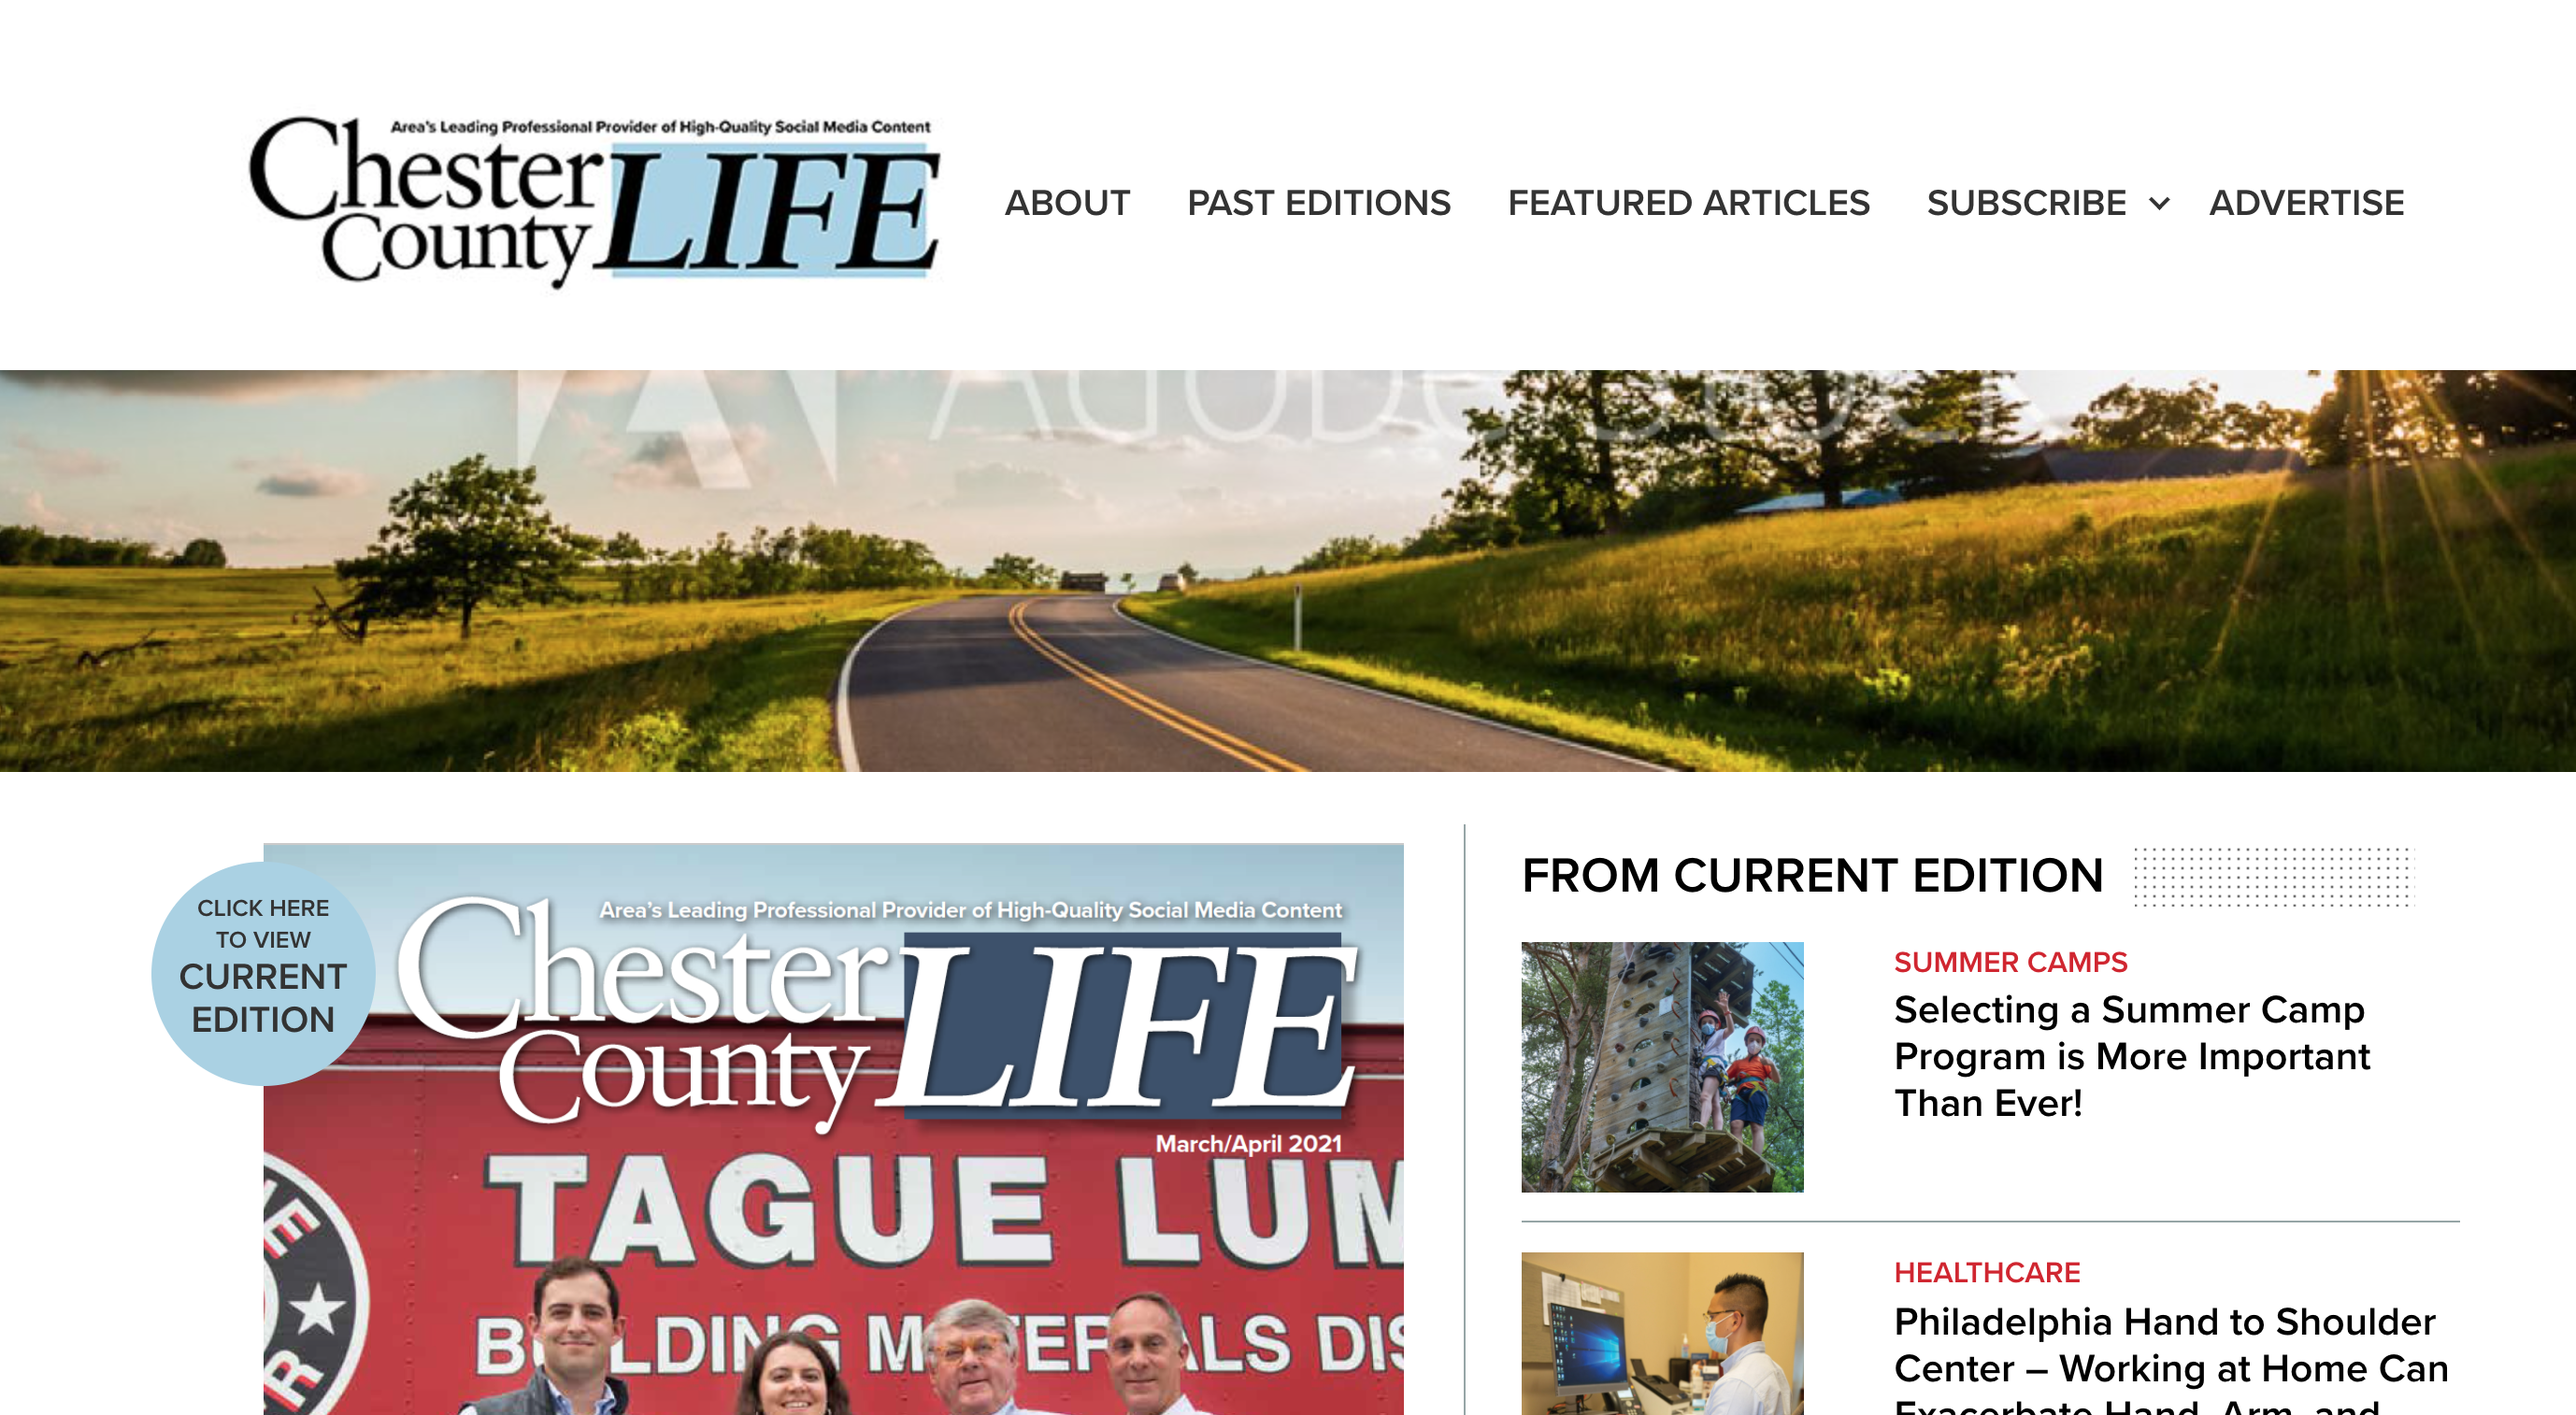
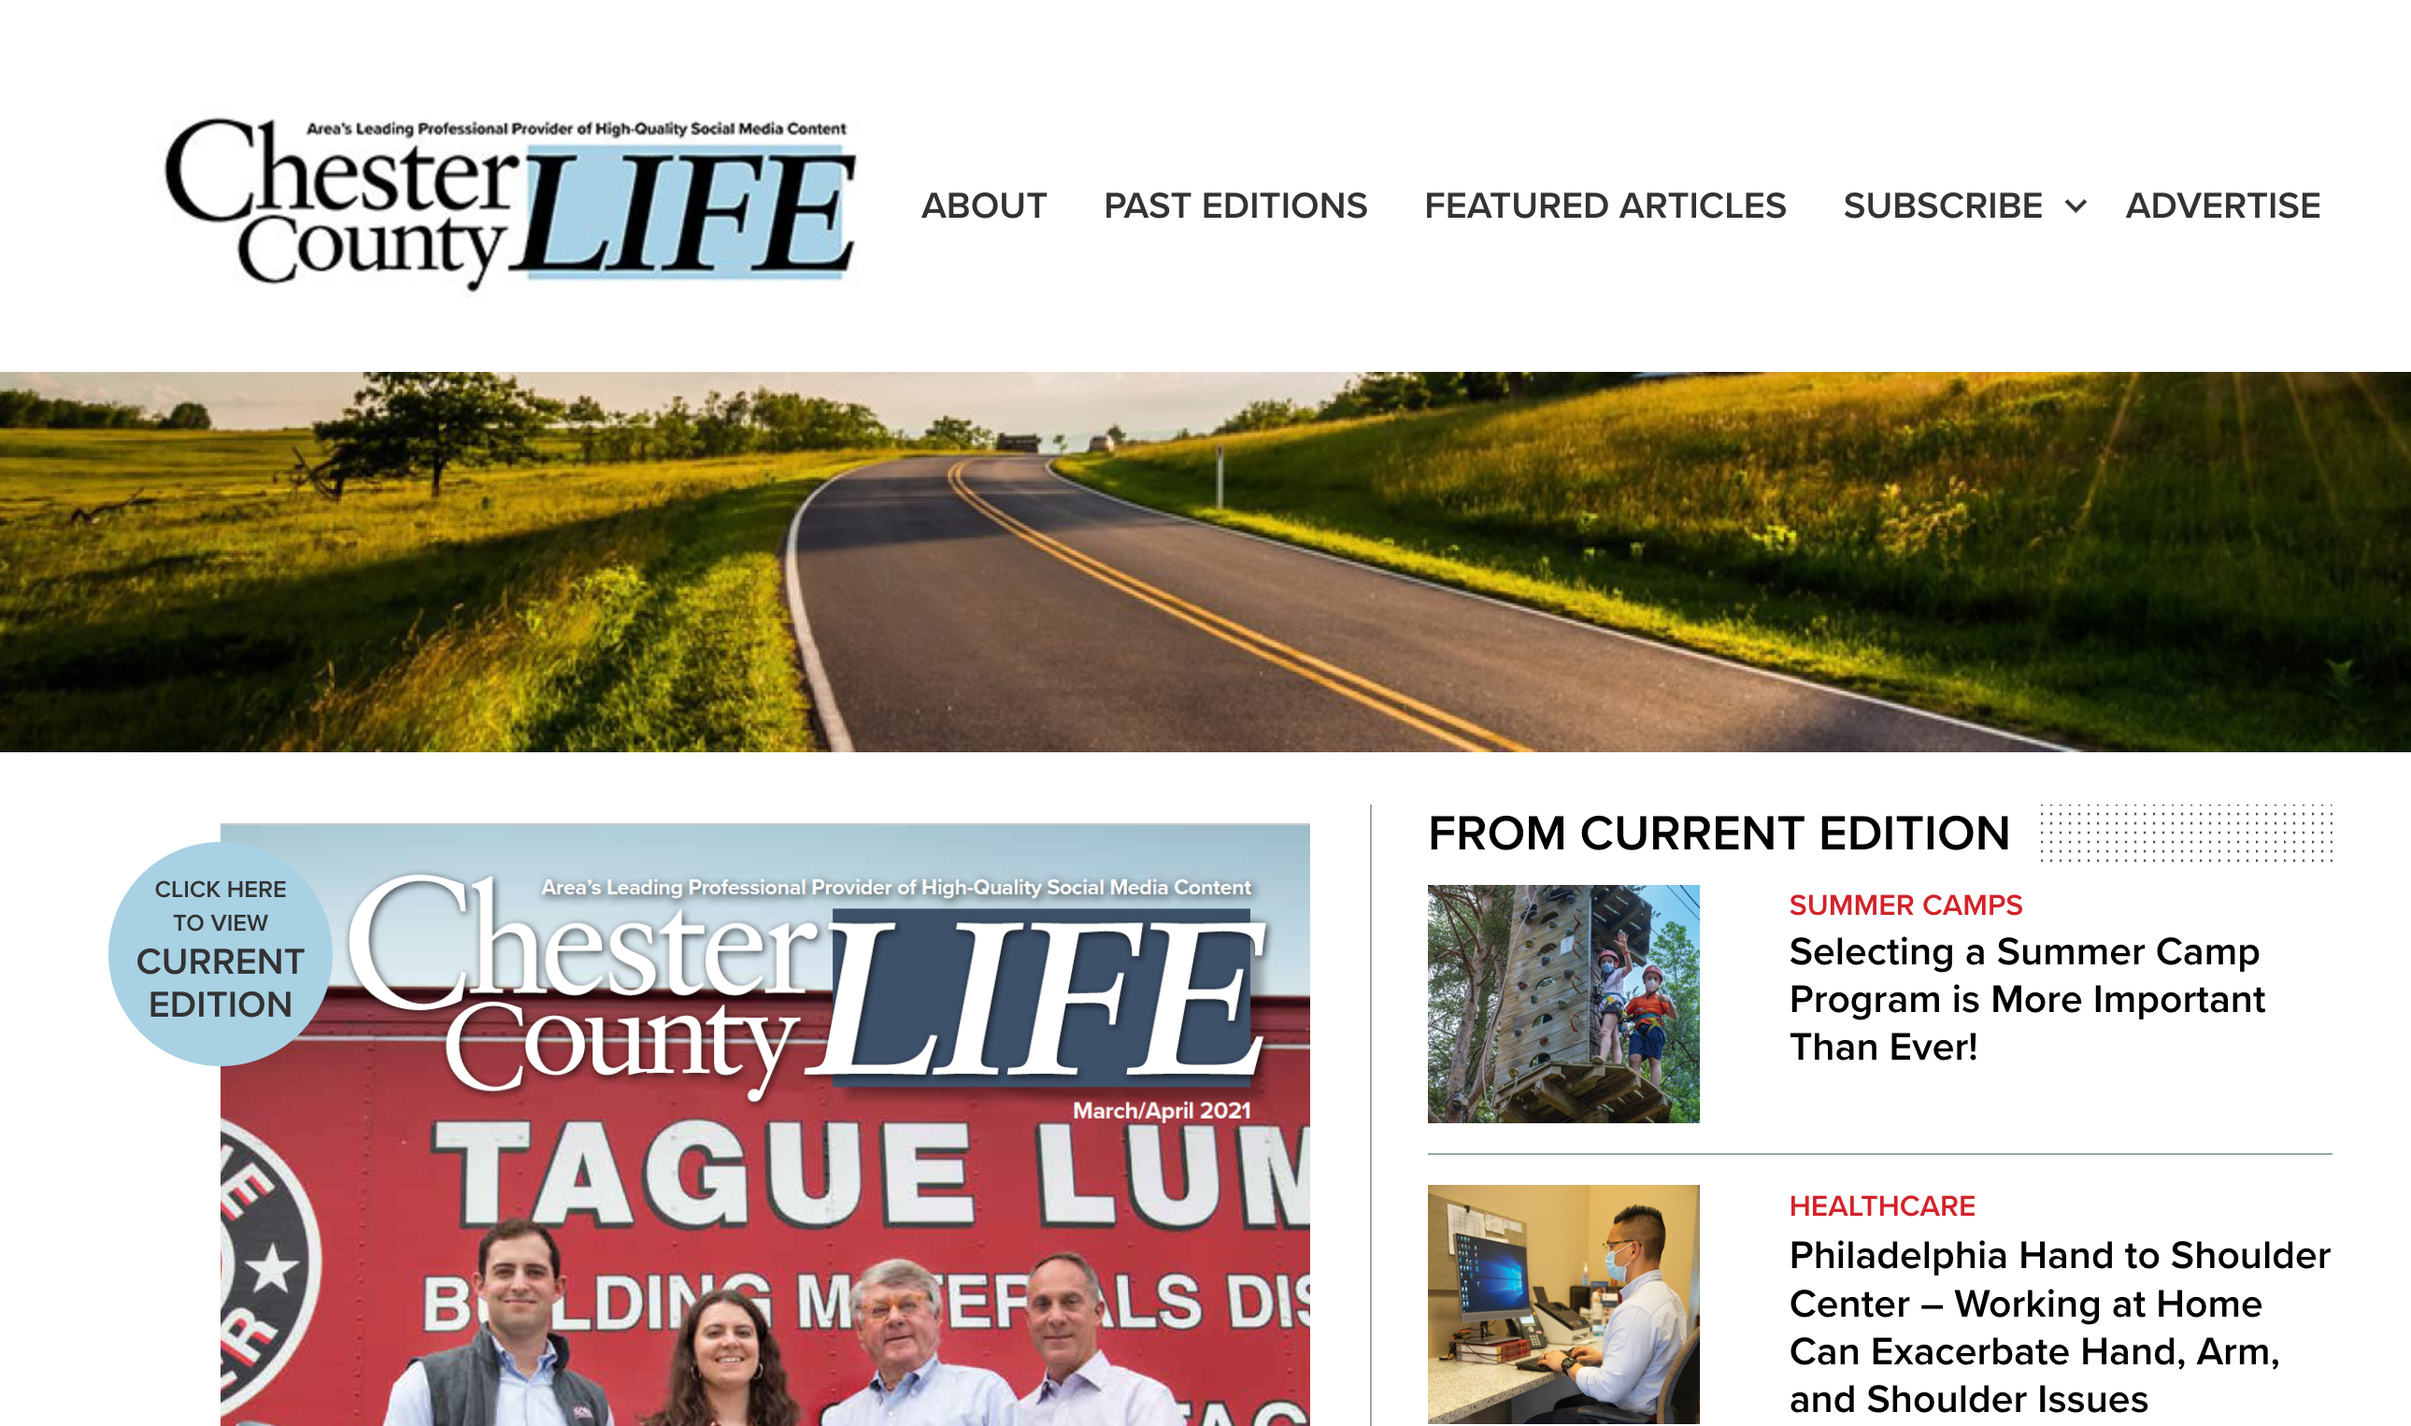
style improvements

diff --git a/assets/css/src/global.css b/assets/css/src/global.css
@@ -379,7 +379,7 @@ select {
 ## Main navigation menu
 --------------------------------------------------------------*/
 .main-navigation {
-	text-underline-offset: 2px;
+	text-underline-offset: 4px;
 	display: flex;
 	align-items: center;
 	margin: 0;
@@ -708,19 +708,20 @@ footer#colophon {
 }
 
 .title-line {
-	margin-top: 1rem;
 	white-space: nowrap;
 	width: 100%;
 	overflow: hidden;
+	margin-bottom: 0.7rem;
 }
 
 .title-line::after {
 	content: "";
 	border-top: none;
[1 lines of base64/hex data omitted]
-	top: -1px;
 	margin-left: 1rem;
 	padding-right: 100%;
+	top: -1px;
+	position: relative;
 }
 
 .right_column {
@@ -757,4 +758,21 @@ footer#colophon {
 
 .author {
 	font-size: large;
+}
+
+.margin-top {
+	margin-top: 0.7rem;
+	margin-bottom: 0.7rem;
+}
+
+span.edit-link {
+	float: right;
+}
+
+.popup-header {
+	color: var(--color-theme-black);
+}
+
+.no-top-margin {
+	margin-top: 0;
 }

diff --git a/assets/css/src/past-issues.css b/assets/css/src/past-issues.css
@@ -31,26 +31,6 @@
 	width: auto;
 }
 
-h1 {
-	margin-bottom: 0;
-	margin-top: 1rem;
-	white-space: nowrap;
-	width: 100%;
-	overflow: hidden;
-}
-
-h1::before {
-	content: "";
-	border-top: none;
[1 lines of base64/hex data omitted]
-	top: 10px;
-}
-
-h1::after {
-	content: "";
-	border-top: none;
[1 lines of base64/hex data omitted]
-	top: -1px;
-	margin-left: 1rem;
-	padding-right: 100%;
+.title-line::after {
+	top: -10px;
 }

diff --git a/style.css b/style.css
@@ -1,13 +1,13 @@
 /*!
-Theme Name: Chester County Life 1.5
+Theme Name: Chester County Life Dev
 Theme URI: https://goodness-creative.com
 Author: Jacob Stephens, Melodee Stephens
 Author URI: https://goodness-creative.com
 Description: A theme for Chester County Life.
-Version: 1.5
+Version: 1.7
 License: GNU General Public License v3.0 (or later)
 License URI: https://www.gnu.org/licenses/gpl-3.0.html
-Text Domain: wp-rig
+Text Domain: ccl
 Tags: translation-ready
 
 This theme, like WordPress, is licensed under the GPL.

diff --git a/assets/css/src/_typography.css b/assets/css/src/_typography.css
@@ -120,9 +120,10 @@ big {
 
 h2 {
 	font-size: 20pt;
-	line-height: 25px;
+	line-height: 1.2;
 	color: var(--color-theme-dark-black);
 	font-weight: 600;
+	margin: 0.25rem auto 0.25rem auto;
 }
 
 .category-links {

diff --git a/assets/css/src/home.css b/assets/css/src/home.css
@@ -4,7 +4,7 @@
 	display: grid;
 	grid-template-columns: 200px 2fr;
 	grid-template-areas: "photo text";
-	column-gap: 1rem;
+	column-gap: 2rem;
 }
 
 .post-thumbnail {

diff --git a/assets/css/src/widgets.css b/assets/css/src/widgets.css
@@ -3,7 +3,6 @@
 --------------------------------------------------------------*/
 
 .widget-title {
-	font-size: 1.5em;
 	text-transform: uppercase;
 }
 

diff --git a/assets/css/src/single.css b/assets/css/src/single.css
@@ -1,3 +1,7 @@
 span.tag-links.term-links {
 	display: none;
 }
+
+.entry-title.entry-title-singular {
+	margin-top: 0.7rem;
+}

diff --git a/assets/css/src/front-page.css b/assets/css/src/front-page.css
@@ -129,3 +129,7 @@ h2 {
 	filter: drop-shadow(5px 5px 5px #333);
 	transition: 0.2s;
 }
+
+#colophon {
+	width: 100%;
+}

diff --git a/category.php b/category.php
@@ -1,39 +1,50 @@
 <?php
 /**
- * The template for displaying category archives.
+ * The main template file
  *
- * When active, applies to all category archives.
- * To target a specific category, rename file to category-{slug/id}.php
+ * This is the most generic template file in a WordPress theme
+ * and one of the two required files for a theme (the other being style.css).
+ * It is used to display a page when nothing more specific matches a query.
+ * E.g., it puts together the home page when no home.php file exists.
  *
- * @link https://developer.wordpress.org/themes/basics/template-hierarchy/#category
+ * @link https://codex.wordpress.org/Template_Hierarchy
  *
  * @package wp_rig
  */
 
 namespace WP_Rig\WP_Rig;
 
+use WP_Query;
+
 get_header();
 
-wp_rig()->print_styles( 'wp-rig-content', 'wp-rig-category' );
+wp_rig()->print_styles( 'wp-rig-content', 'wp-rig-home', 'wp-rig-featured-articles' );
 
 ?>
-	<main id="primary" class="site-main">
+	<main id="primary" class="site-main left_column">
+
+	<h2 class="title-line">
 		<?php
-		if ( have_posts() ) {
-
-			get_template_part( 'template-parts/content/page_header' );
-
-			while ( have_posts() ) {
-				the_post();
-
-				get_template_part( 'template-parts/content/entry_category', get_post_type() );
-			}
-
-			get_template_part( 'template-parts/content/pagination' );
-		} else {
-			get_template_part( 'template-parts/content/error' );
-		}
+		get_template_part( 'template-parts/content/page_header_category' );
 		?>
+	</h2>
+
+	<?php
+
+	if ( have_posts() ) {
+
+		while ( have_posts() ) {
+			the_post();
+			get_template_part( 'template-parts/content/entry_home_category', get_post_type() );
+		}
+
+		if ( ! is_singular() ) {
+			get_template_part( 'template-parts/content/pagination' );
+		}
+	} else {
+		get_template_part( 'template-parts/content/error' );
+	}
+	?>
 	</main><!-- #primary -->
 <?php
 get_sidebar();

diff --git a/template-parts/content/entry_home_category.php b/template-parts/content/entry_home_category.php
@@ -1,0 +1,40 @@
+<?php
+/**
+ * Template part for displaying a post
+ *
+ * @package wp_rig
+ */
+
+namespace WP_Rig\WP_Rig;
+
+?>
+
+<article id="post-<?php the_ID(); ?>" <?php post_class( 'entry' ); ?>>
+	<?php
+
+	get_template_part( 'template-parts/content/entry_home_header_category', get_post_type() );
+
+	if ( is_search() ) {
+		get_template_part( 'template-parts/content/entry_summary', get_post_type() );
+	}
+
+	?>
+</article><!-- #post-<?php the_ID(); ?> -->
+
+<?php
+if ( is_singular( get_post_type() ) ) {
+	// Show post navigation only when the post type is 'post' or has an archive.
+	if ( 'post' === get_post_type() || get_post_type_object( get_post_type() )->has_archive ) {
+		the_post_navigation(
+			array(
+				'prev_text' => '<div class="post-navigation-sub"><span>' . esc_html__( 'Previous:', 'wp-rig' ) . '</span></div>%title',
+				'next_text' => '<div class="post-navigation-sub"><span>' . esc_html__( 'Next:', 'wp-rig' ) . '</span></div>%title',
+			)
+		);
+	}
+
+	// Show comments only when the post type supports it and when comments are open or at least one comment exists.
+	if ( post_type_supports( get_post_type(), 'comments' ) && ( comments_open() || get_comments_number() ) ) {
+		comments_template();
+	}
+}

diff --git a/template-parts/content/page_header_category.php b/template-parts/content/page_header_category.php
@@ -1,0 +1,54 @@
+<?php
+/**
+ * Template part for displaying the page header of the currently displayed page
+ *
+ * @package wp_rig
+ */
+
+namespace WP_Rig\WP_Rig;
+
+if ( is_404() ) {
+	?>
+	<header class="page-header">
+		<h1 class="page-title">
+			<?php esc_html_e( 'Oops! That page can&rsquo;t be found.', 'wp-rig' ); ?>
+		</h1>
+	</header><!-- .page-header -->
+	<?php
+} elseif ( is_home() && ! have_posts() ) {
+	?>
+	<header class="page-header">
+		<h1 class="page-title">
+			<?php esc_html_e( 'Nothing Found', 'wp-rig' ); ?>
+		</h1>
+	</header><!-- .page-header -->
+	<?php
+} elseif ( is_home() && ! is_front_page() ) {
+	?>
+	<header class="page-header">
+		<h1 class="page-title">
+			<?php single_post_title(); ?>
+		</h1>
+	</header><!-- .page-header -->
+	<?php
+} elseif ( is_search() ) {
+	?>
+	<header class="page-header">
+		<h1 class="page-title">
+			<?php
+			printf(
+				/* translators: %s: search query */
+				esc_html__( 'Search Results for: %s', 'wp-rig' ),
+				'<span>' . get_search_query() . '</span>'
+			);
+			?>
+		</h1>
+	</header><!-- .page-header -->
+	<?php
+} elseif ( is_archive() ) {
+	?>
+		<?php
+		wp_rig()->my_archive_title( '', '' );
+		?>
+	<?php
+}

diff --git a/template-parts/content/entry_home_header_category.php b/template-parts/content/entry_home_header_category.php
@@ -1,0 +1,25 @@
+<?php
+/**
+ * Template part for displaying a post's header
+ *
+ * @package wp_rig
+ */
+
+namespace WP_Rig\WP_Rig;
+
+?>
+
+<header class="entry-header">
+	<?php
+	if ( ! is_search() ) {
+		get_template_part( 'template-parts/content/entry_thumbnail', get_post_type() );
+	}
+	?>
+
+	<div class="ccl-content">
+		<?php get_template_part( 'template-parts/content/entry_title_no_page_header', get_post_type() ); ?>
+
+		<?php get_template_part( 'template-parts/content/entry_home_content', get_post_type() ); ?>
+	</div>
+
+</header><!-- .entry-header -->
